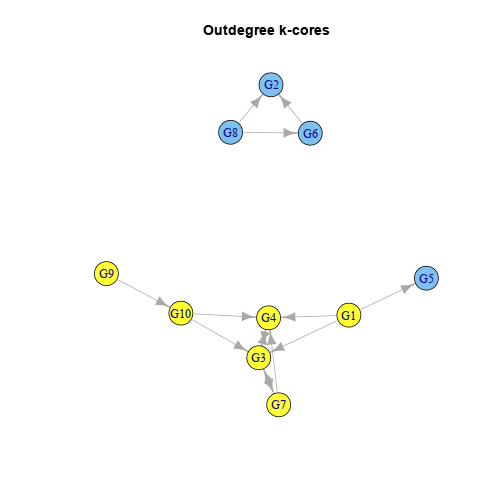
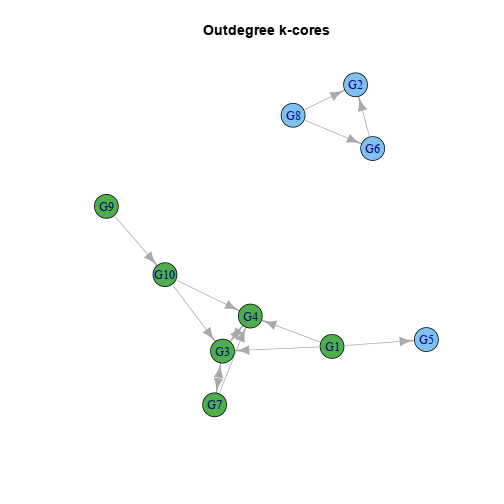
Added kcliques DREAM4 example

diff --git a/07-mejn-measures-and-metrics-ii/README.md b/07-mejn-measures-and-metrics-ii/README.md
@@ -401,6 +401,7 @@ of the grouping measures described above on this network.
 ```r
 # color palette including default light blue
 library(RColorBrewer)
+set.seed(1)
 pal = c("#7EC0EE", sample(brewer.pal(9, "Set1")))
 
 # compute k-cores for with respect to ingoing edges, outgoing edges and all
@@ -447,6 +448,33 @@ plot(undirected, main = "k-cores (undirected)")
 ![plot of chunk dream4_kcore](figure/dream4_kcore4.png) 
 
 
+## k-cliques
+
+Next, let's look for k-cliques in the data using
+[RBGL](http://www.bioconductor.org/packages/release/bioc/html/RBGL.html).
+
+
+```r
+# convert to an undirected node-edge list readable by RBGL and list
+# 2-cliques
+library(RBGL)
+kCliques(igraph.to.graphNEL(as.undirected(g)))[[2]]
+```
+
+```
+## [[1]]
+## [1] "G1" "G3" "G4" "G5"
+## 
+## [[2]]
+## [1] "G2" "G6" "G8"
+## 
+## [[3]]
+## [1] "G1"  "G3"  "G4"  "G7"  "G10"
+## 
+## [[4]]
+## [1] "G3"  "G4"  "G9"  "G10"
+```
+
 
 References
 ----------
@@ -477,7 +505,7 @@ date()
 ```
 
 ```
-## [1] "Thu Mar 13 12:50:14 2014"
+## [1] "Thu Mar 13 17:07:41 2014"
 ```
 
 ```r
@@ -489,26 +517,28 @@ sessionInfo()
 ## Platform: x86_64-unknown-linux-gnu (64-bit)
 ## 
 ## locale:
-##  [1] LC_CTYPE=en_US.UTF-8       LC_NUMERIC=C              
-##  [3] LC_TIME=en_US.UTF-8        LC_COLLATE=en_US.UTF-8    
-##  [5] LC_MONETARY=en_US.UTF-8    LC_MESSAGES=en_US.UTF-8   
-##  [7] LC_PAPER=en_US.UTF-8       LC_NAME=C                 
-##  [9] LC_ADDRESS=C               LC_TELEPHONE=C            
-## [11] LC_MEASUREMENT=en_US.UTF-8 LC_IDENTIFICATION=C       
+##  [1] LC_CTYPE=en_US.utf8       LC_NUMERIC=C             
+##  [3] LC_TIME=en_US.utf8        LC_COLLATE=en_US.utf8    
+##  [5] LC_MONETARY=en_US.utf8    LC_MESSAGES=en_US.utf8   
+##  [7] LC_PAPER=en_US.utf8       LC_NAME=C                
+##  [9] LC_ADDRESS=C              LC_TELEPHONE=C           
+## [11] LC_MEASUREMENT=en_US.utf8 LC_IDENTIFICATION=C      
 ## 
 ## attached base packages:
 ## [1] parallel  stats     graphics  grDevices utils     datasets  methods  
 ## [8] base     
 ## 
 ## other attached packages:
-##  [1] Matrix_1.0-14        lattice_0.20-27      RColorBrewer_1.0-5  
-##  [4] DREAM4_0.99.18       GenomicRanges_1.14.4 XVector_0.2.0       
-##  [7] IRanges_1.20.7       BiocGenerics_0.8.0   igraph_0.7.0        
-## [10] knitr_1.5            setwidth_1.0-3       colorout_1.0-0      
+##  [1] RBGL_1.38.0          graph_1.40.1         DREAM4_0.99.18      
+##  [4] GenomicRanges_1.14.4 XVector_0.2.0        IRanges_1.20.7      
+##  [7] BiocGenerics_0.8.0   BiocInstaller_1.12.0 RColorBrewer_1.0-5  
+## [10] igraph_0.7.0         knitr_1.5            vimcom.plus_0.9-92  
+## [13] setwidth_1.0-3       colorout_1.0-0      
 ## 
 ## loaded via a namespace (and not attached):
-## [1] evaluate_0.5.1 formatR_0.10   grid_3.0.2     markdown_0.6.4
-## [5] stats4_3.0.2   stringr_0.6.2  tools_3.0.2
+## [1] evaluate_0.5.1  formatR_0.10    grid_3.0.2      lattice_0.20-23
+## [5] markdown_0.6.4  Matrix_1.0-14   stats4_3.0.2    stringr_0.6.2  
+## [9] tools_3.0.2
 ```
 
 
